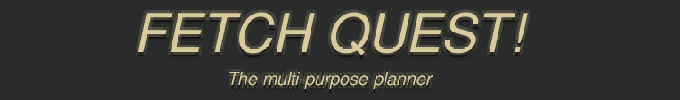
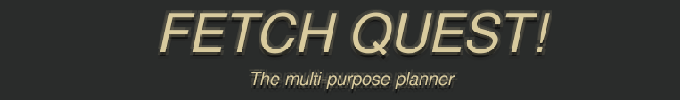
Fixed centering on fq_banner.png, Fixed fq_softwareSlot.png not appearing on software page

Changed region(s): [[0.1853, 0.09, 0.8338, 0.57], [0.3397, 0.69, 0.6794, 0.9]]

diff --git a/software.html b/software.html
@@ -146,7 +146,7 @@ for (i = 0; i < coll.length; i++) {
 <!-- Row A -->
 <center><font size="12" color=#0f0f0f><br></font></center>
 <center>
-  <!-- files/3_software/vrcmods/software_vrcmods.html --><button class="collapsible"><a href="/files/3_software/fq/software_fq.html"><img src="/files/3_software/fq/fq_softwareslot.png" style="width:160px;height:208px;"></a></button><font size="12" color=#0f0f0f>   &nbsp;   </font>
+  <!-- files/3_software/vrcmods/software_vrcmods.html --><button class="collapsible"><a href="/files/3_software/fq/software_fq.html"><img src="/files/3_software/fq/fq_softwareSlot.png" style="width:160px;height:208px;"></a></button><font size="12" color=#0f0f0f>   &nbsp;   </font>
   <button class="collapsible"><a href="software.html"><img src="/files/3_software/main/blank_softwareslot.png" style="width:160px;height:208px;"></a></button><font size="12" color=#0f0f0f>   &nbsp;   </font>
   <button class="collapsible"><a href="software.html"><img src="/files/3_software/main/blank_softwareslot.png" style="width:160px;height:208px;"></a></button><font size="12" color=#0f0f0f>   &nbsp;   </font>
 </center>
